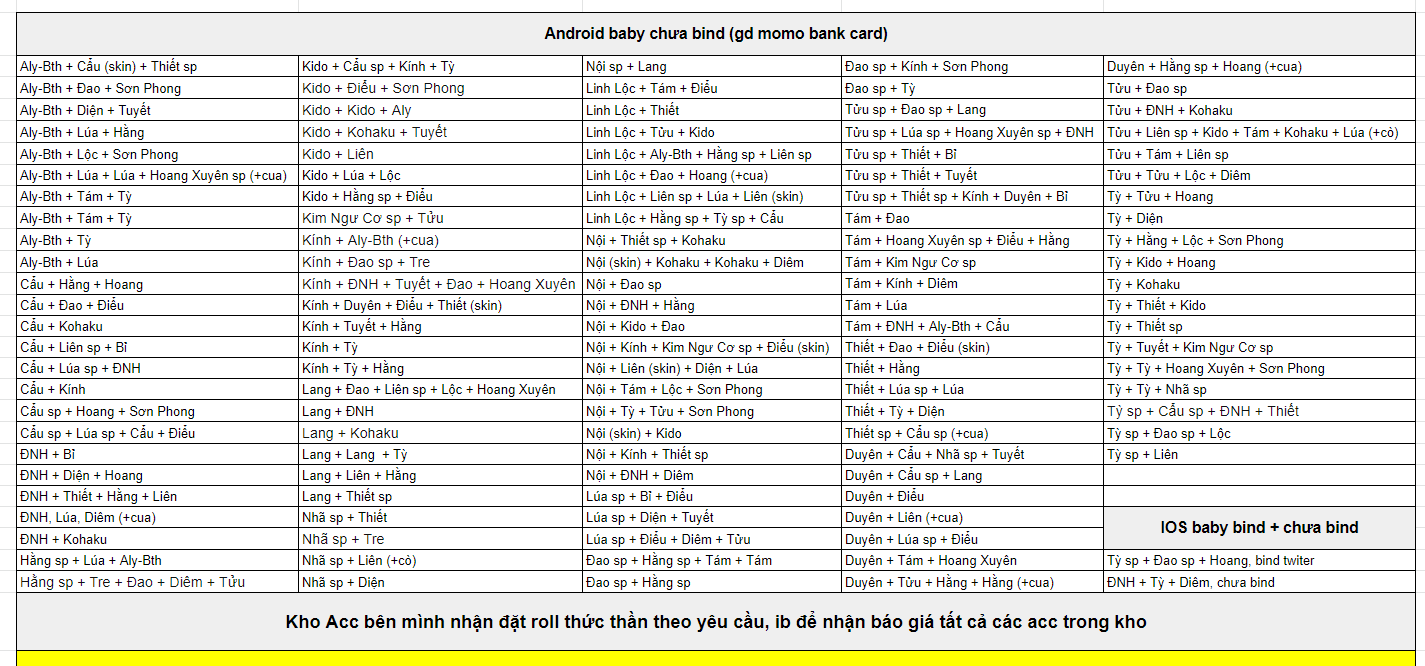
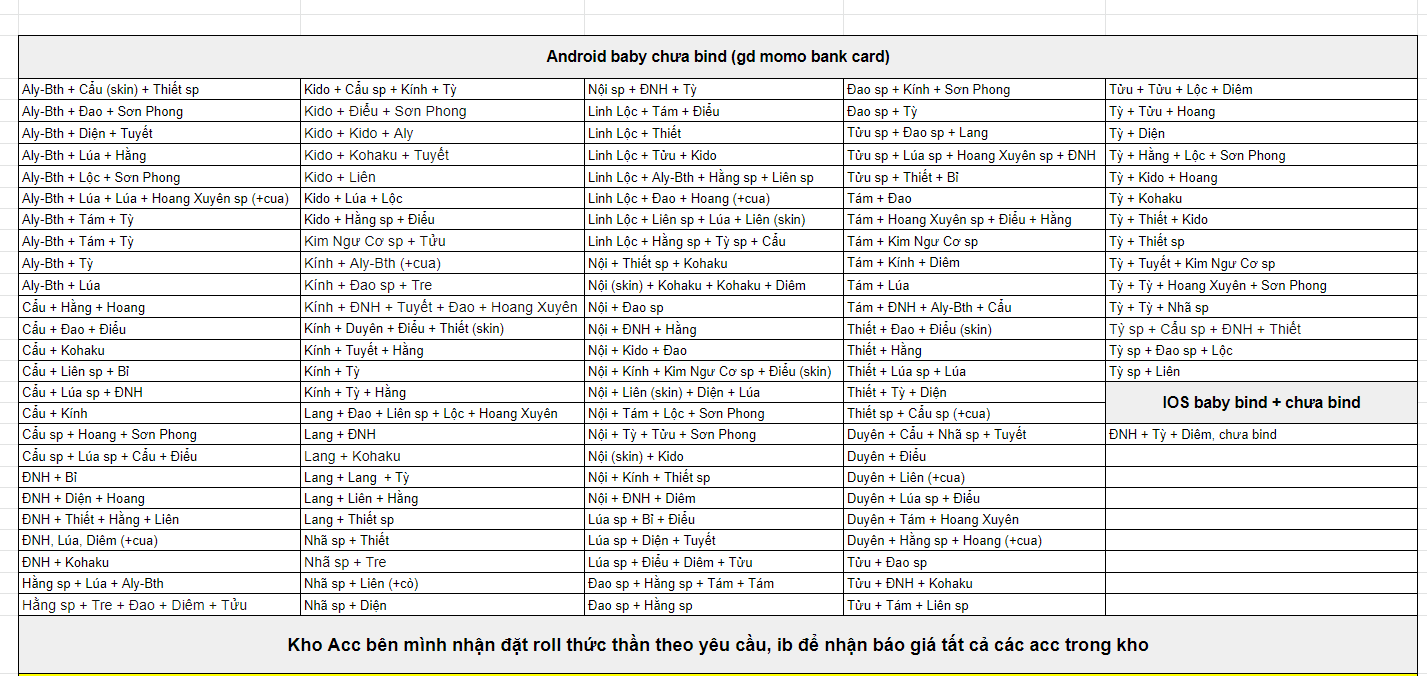
h

Changed region(s): [[0.0, 0.03, 1.0, 1.0]]

diff --git a/index.html b/index.html
@@ -68,6 +68,10 @@ li {margin-bottom: 5px;}
   </tr>
   
 
+<tr><td>Nội sp + ĐNH + Tỳ, chưa bind, mã L29 = 200k</td>
+<td class="right"><a href="img/android-lv15/Nội sp + ĐNH + Tỳ, chưa bind, mã L29 = 200k.jpg" target="_bank"><span  class="xemacc">Xem acc</span></a></td>
+</tr> 
+   
 <tr><td>Cẩu + Kính, chưa bind, mã L20 = 70k</td>
 <td class="right"><a href="img/android-lv15/Cẩu + Kính, chưa bind, mã L20 = 70k.jpg" target="_bank"><span  class="xemacc">Xem acc</span></a></td>
 </tr> 
